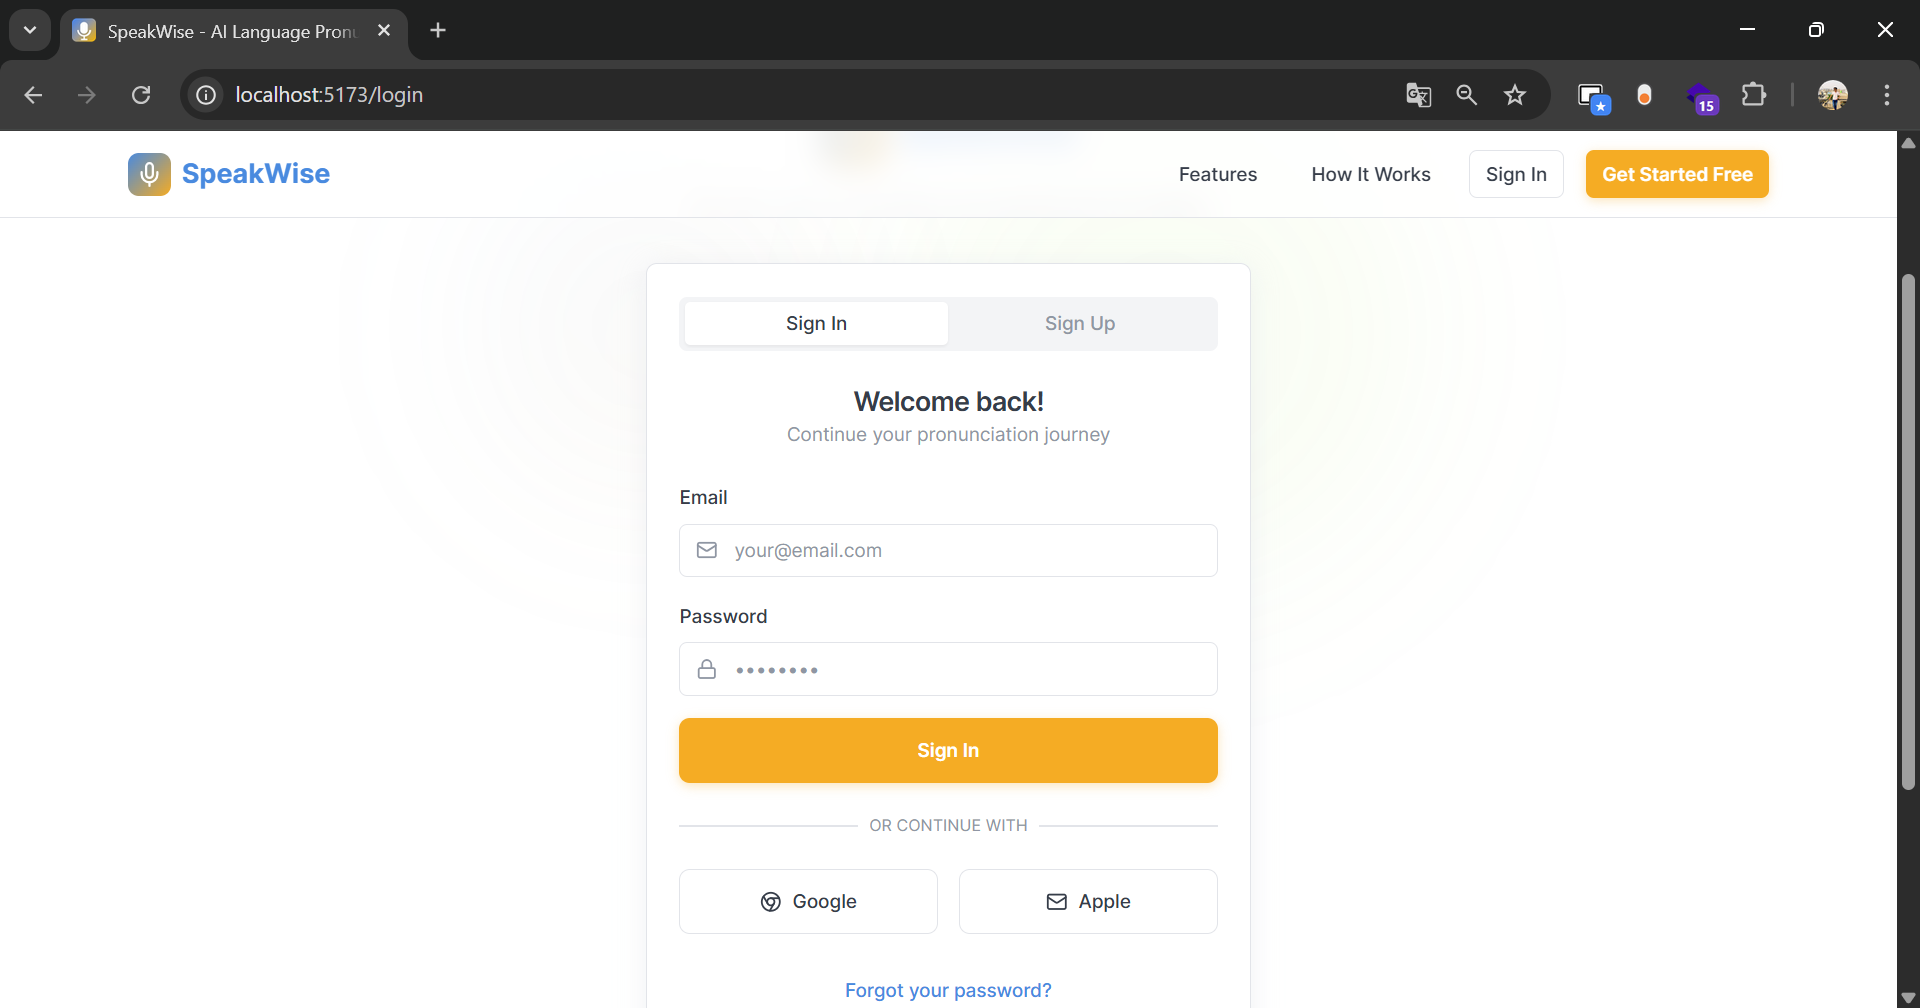
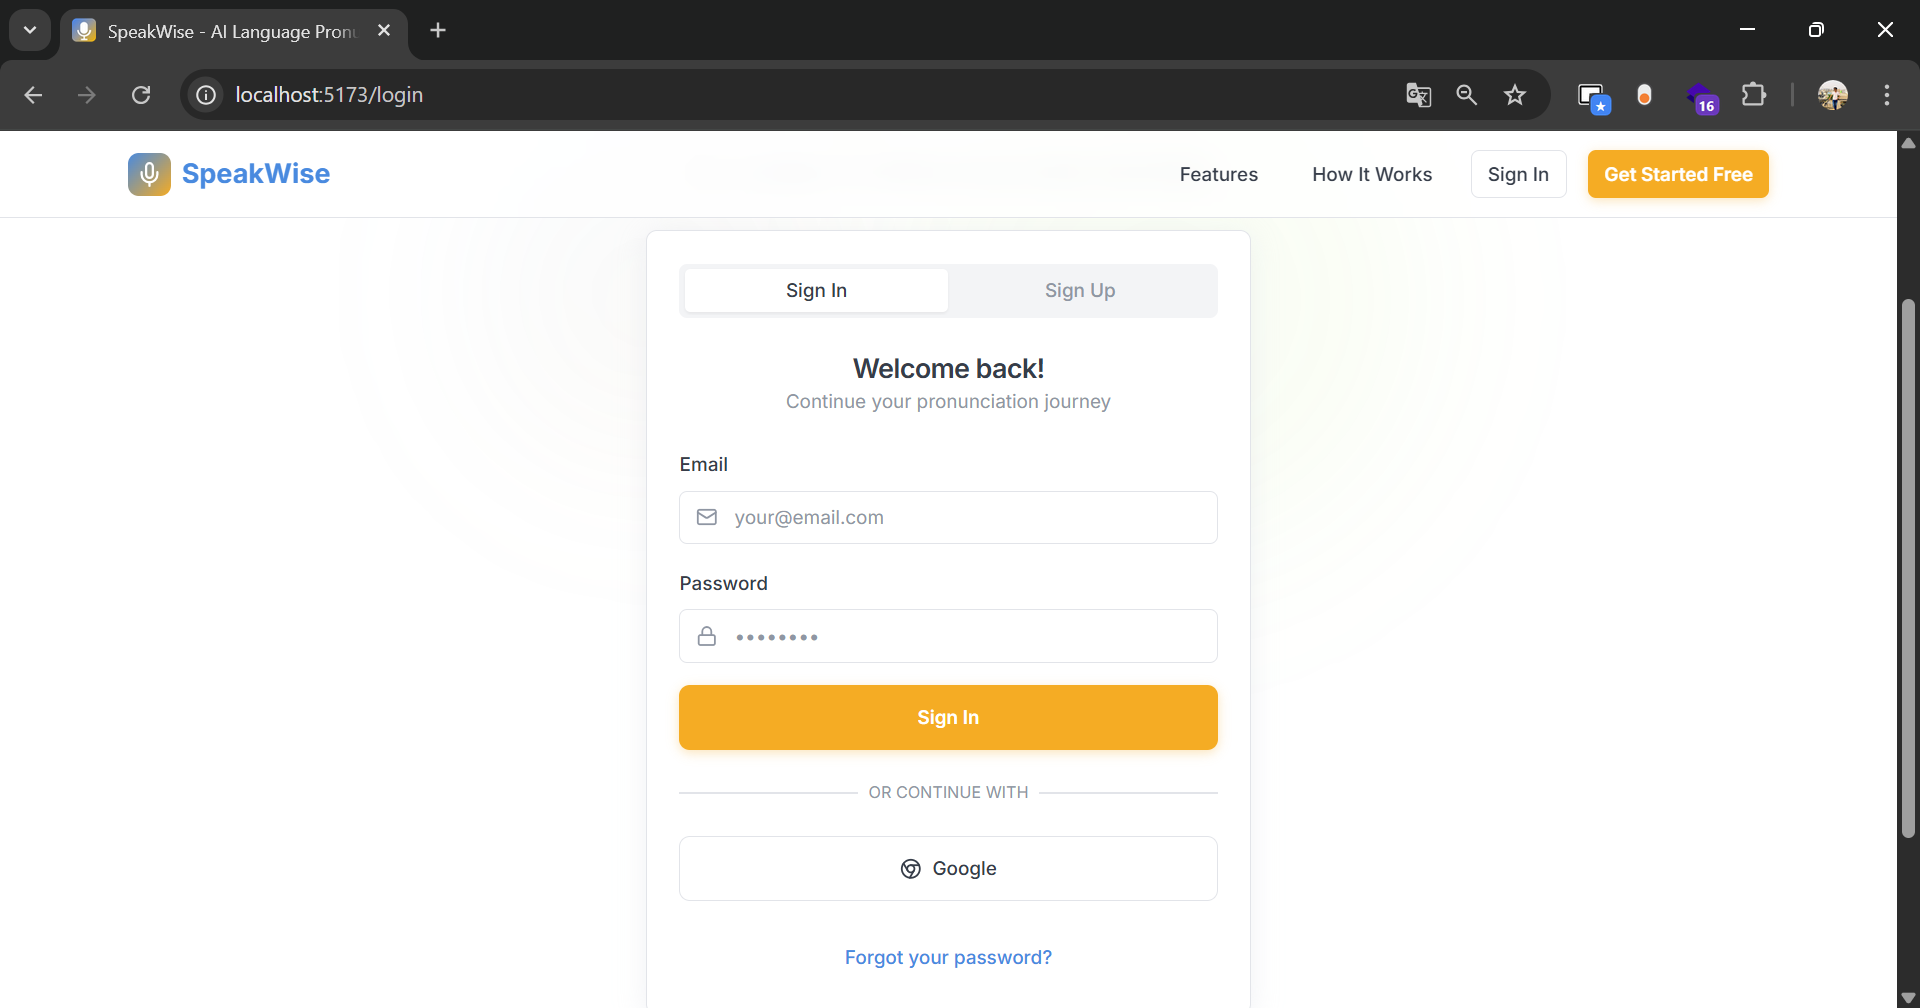
update readme.md file

diff --git a/frontend/src/pages/Practice.tsx b/frontend/src/pages/Practice.tsx
@@ -12,9 +12,8 @@ const Practice = () => {
 
   const currentPhrase = {
     text: "Hello, how are you today?",
-    phonetic: "/həˈloʊ, haʊ ɑr ju təˈdeɪ/",
     difficulty: "Beginner",
-    category: "Greetings"
+    category: "Greetings",
   };
 
   const handleRecord = () => {
@@ -52,7 +51,7 @@ const Practice = () => {
                 Back to Dashboard
               </Link>
             </Button>
-            
+
             <div className="flex items-center space-x-2">
               <Badge variant="outline">{currentPhrase.category}</Badge>
               <Badge variant="secondary">{currentPhrase.difficulty}</Badge>
@@ -64,7 +63,6 @@ const Practice = () => {
       {/* Practice Arena */}
       <main className="max-w-4xl mx-auto px-4 sm:px-6 lg:px-8 py-8 sm:py-12">
         <div className="text-center space-y-8 sm:space-y-12">
-          
           {/* Instructions */}
           <div className="space-y-4">
             <h1 className="text-xl sm:text-2xl font-semibold text-muted-foreground">
@@ -79,13 +77,13 @@ const Practice = () => {
                 <p className="text-2xl sm:text-3xl lg:text-4xl font-medium text-foreground leading-relaxed">
                   "{currentPhrase.text}"
                 </p>
-                <p className="text-sm sm:text-base lg:text-lg text-muted-foreground font-mono">
+                {/* <p className="text-sm sm:text-base lg:text-lg text-muted-foreground font-mono">
                   {currentPhrase.phonetic}
-                </p>
+                </p> */}
               </div>
-              
-              <Button 
-                variant="outline" 
+
+              <Button
+                variant="outline"
                 size="lg"
                 onClick={handlePlayback}
                 disabled={isPlaying}
@@ -99,7 +97,9 @@ const Practice = () => {
                 ) : (
                   <>
                     <Volume2 className="w-5 h-5" />
-                    <span className="hidden sm:inline">Listen to Native Speaker</span>
+                    <span className="hidden sm:inline">
+                      Listen to Native Speaker
+                    </span>
                     <span className="sm:hidden">Listen</span>
                   </>
                 )}
@@ -109,7 +109,6 @@ const Practice = () => {
 
           {/* Recording Interface */}
           <div className="space-y-6 sm:space-y-8">
-            
             {/* Waveform Visualization */}
             {isRecording && (
               <div className="flex items-center justify-center gap-1 h-12 sm:h-16">
@@ -119,7 +118,7 @@ const Practice = () => {
                     className="w-1 bg-gradient-hero rounded-full animate-pulse"
                     style={{
                       height: `${Math.random() * 40 + 16}px`,
-                      animationDelay: `${i * 0.1}s`
+                      animationDelay: `${i * 0.1}s`,
                     }}
                   />
                 ))}
@@ -131,7 +130,9 @@ const Practice = () => {
               <div className="space-y-2">
                 <div className="flex items-center justify-center gap-2 text-action">
                   <div className="w-3 h-3 bg-action rounded-full animate-pulse" />
-                  <span className="font-semibold text-sm sm:text-base">Recording...</span>
+                  <span className="font-semibold text-sm sm:text-base">
+                    Recording...
+                  </span>
                 </div>
                 <p className="text-muted-foreground text-sm sm:text-base">
                   Speak clearly into your microphone
@@ -144,7 +145,9 @@ const Practice = () => {
               <div className="space-y-2">
                 <div className="flex items-center justify-center gap-2 text-primary">
                   <div className="w-4 h-4 border-2 border-primary border-t-transparent rounded-full animate-spin" />
-                  <span className="font-semibold text-sm sm:text-base">Processing your speech...</span>
+                  <span className="font-semibold text-sm sm:text-base">
+                    Processing your speech...
+                  </span>
                 </div>
                 <p className="text-muted-foreground text-sm sm:text-base">
                   Our AI is analyzing your pronunciation
@@ -159,7 +162,7 @@ const Practice = () => {
               onClick={handleRecord}
               disabled={hasRecorded}
               className={`w-24 h-24 sm:w-28 sm:h-28 lg:w-32 lg:h-32 rounded-full text-lg sm:text-xl font-bold transition-all duration-300 ${
-                isRecording ? 'animate-pulse scale-110' : 'hover:scale-110'
+                isRecording ? "animate-pulse scale-110" : "hover:scale-110"
               }`}
             >
               {isRecording ? (
@@ -171,21 +174,22 @@ const Practice = () => {
 
             <div className="text-center space-y-1">
               <p className="text-base sm:text-lg font-medium text-foreground">
-                {isRecording ? "Tap to stop recording" : "Tap to start recording"}
+                {isRecording
+                  ? "Tap to stop recording"
+                  : "Tap to start recording"}
               </p>
               <p className="text-muted-foreground text-sm sm:text-base">
-                {!isRecording && !hasRecorded && "Press the microphone to record your pronunciation"}
+                {!isRecording &&
+                  !hasRecorded &&
+                  "Press the microphone to record your pronunciation"}
               </p>
             </div>
-
           </div>
-          
+
           {/* Skip Option */}
           <div className="pt-8">
             <Button variant="ghost" asChild>
-              <Link to="/dashboard">
-                Skip this phrase
-              </Link>
+              <Link to="/dashboard">Skip this phrase</Link>
             </Button>
           </div>
         </div>

diff --git a/frontend/src/components/admin/AdminLayout.tsx b/frontend/src/components/admin/AdminLayout.tsx
@@ -1,17 +1,17 @@
 import { useState, ReactNode } from "react";
 import { Link, useLocation, useNavigate } from "react-router-dom";
 import { Button } from "@/components/ui/button";
-import {
-  LayoutDashboard,
-  Users,
-  FileText,
-  BarChart3,
-  Settings,
-  LogOut,
+import { 
+  LayoutDashboard, 
+  Users, 
+  FileText, 
+  BarChart3, 
+  Settings, 
+  LogOut, 
   Menu,
   X,
   Bell,
-  Mic,
+  Mic
 } from "lucide-react";
 import { Badge } from "@/components/ui/badge";
 
@@ -43,29 +43,18 @@ const AdminLayout = ({ children }: AdminLayoutProps) => {
     <div className="min-h-screen bg-background flex">
       {/* Sidebar */}
       <aside
-        className={`fixed lg:relative top-0 left-0 h-screen bg-card border-r transition-all duration-300 z-40 flex-shrink-0 ${
-          sidebarOpen
-            ? "w-64 translate-x-0"
-            : "w-64 -translate-x-full lg:w-20 lg:translate-x-0"
+        className={`fixed top-0 left-0 h-screen bg-card border-r transition-all duration-300 z-40 flex-shrink-0 ${
+          sidebarOpen ? "w-64 translate-x-0" : "w-64 -translate-x-full lg:w-20 lg:translate-x-0"
         }`}
       >
         <div className="flex flex-col h-full">
           {/* Logo */}
           <div className="h-16 border-b flex items-center justify-between px-4">
-            <Link
-              to="/admin"
-              className={`flex items-center space-x-2 ${
-                !sidebarOpen && "lg:justify-center lg:w-full"
-              }`}
-            >
+            <Link to="/admin" className={`flex items-center space-x-2 ${!sidebarOpen && "lg:justify-center lg:w-full"}`}>
               <div className="w-8 h-8 bg-gradient-hero rounded-lg flex items-center justify-center flex-shrink-0">
                 <Mic className="w-5 h-5 text-white" />
               </div>
-              {sidebarOpen && (
-                <span className="text-lg font-bold text-primary">
-                  SpeakWise
-                </span>
-              )}
+              {sidebarOpen && <span className="text-lg font-bold text-primary">SpeakWise</span>}
             </Link>
             <Button
               variant="ghost"
@@ -82,17 +71,13 @@ const AdminLayout = ({ children }: AdminLayoutProps) => {
             {navItems.map((item) => {
               const Icon = item.icon;
               return (
-                <Link key={item.path} to={item.path}>
+                <Link key={item.path} to={item.path} onClick={() => setSidebarOpen(false)}>
                   <Button
                     variant={isActive(item.path) ? "default" : "ghost"}
-                    className={`w-full justify-start gap-3 ${
-                      !sidebarOpen && "lg:justify-center lg:px-2"
-                    }`}
+                    className={`w-full justify-start gap-3 ${!sidebarOpen && "lg:justify-center lg:px-2"}`}
                   >
                     <Icon className="w-5 h-5 flex-shrink-0" />
-                    {sidebarOpen && (
-                      <span className="truncate">{item.label}</span>
-                    )}
+                    {sidebarOpen && <span className="truncate">{item.label}</span>}
                   </Button>
                 </Link>
               );
@@ -116,7 +101,7 @@ const AdminLayout = ({ children }: AdminLayoutProps) => {
       </aside>
 
       {/* Main Content */}
-      <div className="flex-1 flex flex-col min-w-0">
+      <div className="flex-1 flex flex-col min-w-0 lg:ml-20">
         {/* Top Navbar */}
         <header className="h-16 border-b bg-card sticky top-0 z-30">
           <div className="h-full px-4 lg:px-6 flex items-center justify-between">
@@ -148,9 +133,7 @@ const AdminLayout = ({ children }: AdminLayoutProps) => {
                 </div>
                 <div className="hidden md:block">
                   <p className="text-sm font-medium">Arjun Sharma</p>
-                  <p className="text-xs text-muted-foreground">
-                    admin@gmail.com
-                  </p>
+                  <p className="text-xs text-muted-foreground">admin@gmail.com</p>
                 </div>
               </div>
             </div>

diff --git a/frontend/src/pages/Auth.tsx b/frontend/src/pages/Auth.tsx
@@ -149,7 +149,7 @@ const Auth = () => {
                   </div>
                 </div>
 
-                <div className="grid grid-cols-2 gap-3 sm:gap-4">
+                <div className="gap-3 sm:gap-4">
                   <Button
                     variant="outline"
                     size="lg"
@@ -157,14 +157,6 @@ const Auth = () => {
                   >
                     <Chrome className="w-4 h-4" />
                     <span className="hidden sm:inline">Google</span>
-                  </Button>
-                  <Button
-                    variant="outline"
-                    size="lg"
-                    className="w-full text-sm"
-                  >
-                    <Mail className="w-4 h-4" />
-                    <span className="hidden sm:inline">Apple</span>
                   </Button>
                 </div>
 
@@ -254,7 +246,7 @@ const Auth = () => {
                   </div>
                 </div>
 
-                <div className="grid grid-cols-2 gap-3 sm:gap-4">
+                <div className="gap-3 sm:gap-4">
                   <Button
                     variant="outline"
                     size="lg"
@@ -262,14 +254,6 @@ const Auth = () => {
                   >
                     <Chrome className="w-4 h-4" />
                     <span className="hidden sm:inline">Google</span>
-                  </Button>
-                  <Button
-                    variant="outline"
-                    size="lg"
-                    className="w-full text-sm"
-                  >
-                    <Mail className="w-4 h-4" />
-                    <span className="hidden sm:inline">Apple</span>
                   </Button>
                 </div>
 

diff --git a/frontend/README.md b/frontend/README.md
@@ -103,10 +103,25 @@ Screenshots of the application can be found in the `docs/screenshots` directory.
 ![Progress 2](docs/screenshots/Dashboard/Progress-2.png)
 *Progress — another view of progress tracking.*
 
+![Practice Mode](docs/screenshots/Dashboard/Practice.png)
+*Practice — interactive practice interface with voice input.*
+
+![Feedback 1](docs/screenshots/Dashboard/Feedback-1.png)
+*Feedback — example of feedback provided after a practice session.*
+
+![Feedback 2](docs/screenshots/Dashboard/Feedback-2.png)
+*Feedback — score breakdown and suggestions.*
+
+![Feedback 3](docs/screenshots/Dashboard/Feedback-3.png)
+*Feedback — detailed corrections and tips.*
+
 ### Admin
 
 ![Admin Dashboard](docs/screenshots/Admin/adminDashboard.png)
 *Admin — main admin dashboard overview.*
+
+![Admin Dashboard 2](docs/screenshots/Admin/adminDashboard2.png)
+*Admin — alternate dashboard / overview.*
 
 ![User Management](docs/screenshots/Admin/userManagement.png)
 *Admin — manage users and roles.*
@@ -119,6 +134,9 @@ Screenshots of the application can be found in the `docs/screenshots` directory.
 
 ![Profile & Settings](docs/screenshots/Admin/profileSetting.png)
 *Admin — profile and settings page.*
+
+![Profile & Settings 2](docs/screenshots/Admin/profileSetting2.png)
+*Admin — alternate profile/settings view.*
 
 ![Reports & Analysis](docs/screenshots/Admin/reportAnalysis.png)
 *Admin — reports and analytics view.*
